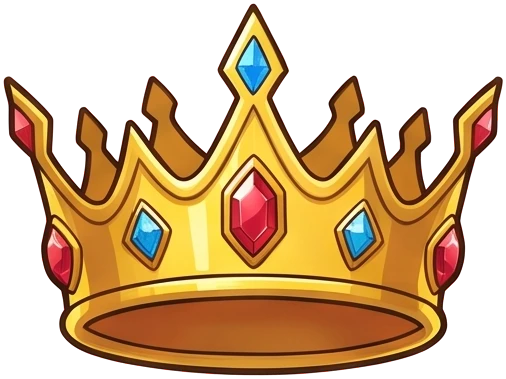
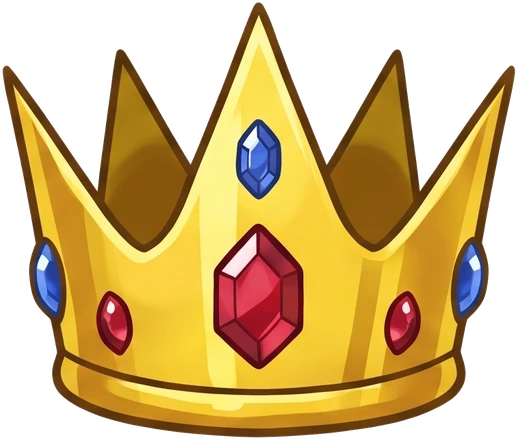
皇冠換成重畫的三頂（由上往下看的角度），並重調各型態的皇冠位置

diff --git a/js/sprites.js b/js/sprites.js
@@ -1,8 +1,8 @@
 // 圖片版美術：角色、怪物、升級配件都用 img/*.webp（由 tools/process_art.py 從 art_src 產生）
 // 對外介面與舊的 characters.js（程式畫的 SVG）相同，所以遊戲其他部分不用改。
-import { ART } from './art-meta.js?v=27';
+import { ART } from './art-meta.js?v=29';
 
-const AV = 1; // 圖片版本：換圖時 +1，避免瀏覽器用到舊圖
+const AV = 2; // 圖片版本：換圖時 +1，避免瀏覽器用到舊圖
 export const src = (name) => `img/${name}.webp?a=${AV}`;
 // 小圖示（題目物件、卡片圖示…）
 export const pic = (name, cls = 'pic') => `<img class="${cls}" src="${src(name)}" alt="" draggable="false">`;
@@ -22,7 +22,7 @@ export function formOf(level) { return Math.min(3, Math.floor(level / 5)); }
 const FORMS = {
   dino: [
     { h: 205, head: [0.57, 0.02], crown: 0.3, back: [0.3, 0.44], tilt: -6, cape: [0.3, 0.4, 1.35, 22] },
-    { h: 285, head: [0.63, 0.1], crown: 0.17, back: [0.47, 0.43], tilt: -14, cape: [0.5, 0.36, 1.25, 30] },
+    { h: 285, head: [0.63, 0.1], crown: 0.19, back: [0.47, 0.43], tilt: -14, cape: [0.5, 0.36, 1.25, 30] },
     { h: 300, head: [0.73, 0.03], crown: 0.19, back: [0.44, 0.4], tilt: -8, cape: [0.44, 0.32, 1.3, 26] },
     { h: 350, head: [0.67, 0.115], crown: 0.17, back: [0.5, 0.45], tilt: -6, cape: [0.5, 0.36, 1.25, 20], wing: [0.5, 0.22, 1.38] },
   ],
@@ -34,7 +34,7 @@ const FORMS = {
   ],
   boy: [
     { h: 235, head: [0.39, 0.06], crown: 0.27, back: [0.42, 0.52], tilt: 0 },
-    { h: 295, head: [0.5, 0.075], crown: 0.215, back: [0.5, 0.58], tilt: 0 },
+    { h: 295, head: [0.5, 0.105], crown: 0.215, back: [0.5, 0.58], tilt: 0 },
     { h: 340, head: [0.45, 0.2], crown: 0.18, back: [0.49, 0.6], tilt: 0, cape: [0.49, 0.5, 1.45, 0] },
     { h: 380, head: [0.43, 0.22], crown: 0.17, back: [0.48, 0.62], tilt: 0, cape: [0.48, 0.5, 1.5, 0] },
   ],

diff --git a/js/q/k2.js b/js/q/k2.js
@@ -1,6 +1,6 @@
 // 大班（新加坡 K2）：40 種題型。數到 20、分合到 10，開始認數字的「字」（中文版認國字、英文版認英文單字）。
-import { Q, def, L, pl, rnd, pick, shuffle, sample, range, chance, distinct, thing, things2, cnt, THINGS, ANIMALS, FOODS, TOYS } from './core.js?v=27';
-import { items, pile, grp, row, col, fig, emo, ncard, label, pic, seq, tenFrame, shape, bars, bond, ruler, gridMap, lineup, numLine, svg, COLORS, SHAPES, BASIC, cname, sname } from './vis.js?v=27';
+import { Q, def, L, pl, rnd, pick, shuffle, sample, range, chance, distinct, thing, things2, cnt, THINGS, ANIMALS, FOODS, TOYS } from './core.js?v=29';
+import { items, pile, grp, row, col, fig, emo, ncard, label, pic, seq, tenFrame, shape, bars, bond, ruler, gridMap, lineup, numLine, svg, COLORS, SHAPES, BASIC, cname, sname } from './vis.js?v=29';
 
 const T = { count: ['點數', 'Counting', '🔢'], numeral: ['數字', 'Numbers', '7⃣'], word: ['數字的字', 'Number words', '🔤'], seq: ['順序', 'Number order', '➡'], compare: ['比較', 'Comparing', '⚖'],
   bond: ['分合', 'Number bonds', '🫧'], pattern: ['型式', 'Patterns', '🔁'], sort: ['分類', 'Sorting', '🗂'], order: ['排序', 'Ordering', '📶'], shape: ['形狀', 'Shapes', '🔺'], pos: ['位置', 'Position', '📍'], bonus: ['加分題', 'Bonus', '⭐'] };

diff --git a/js/q/p1b.js b/js/q/p1b.js
@@ -1,7 +1,7 @@
 // 小一上 LV2（新加坡 P1 Term 2）：41 種題型。數到 100、加減到 20（湊十、從 10 減），第一次出現圖畫統計圖。
 // 每個題型只是「概念」：數字、東西、人名、主題每次都隨機換。
-import { Q, def, L, pl, rnd, pick, shuffle, sample, range, chance, distinct, thing, things2, cnt, who, who2, THINGS, ANIMALS, FOODS, TOYS } from './core.js?v=27';
-import { items, pile, grp, row, col, fig, emo, ncard, label, pic, dots, seq, bigEq, tenFrame, bond, numLine, hgrid, blocks, pgraph, tally, table, twd, modelCmp, svg } from './vis.js?v=27';
+import { Q, def, L, pl, rnd, pick, shuffle, sample, range, chance, distinct, thing, things2, cnt, who, who2, THINGS, ANIMALS, FOODS, TOYS } from './core.js?v=29';
+import { items, pile, grp, row, col, fig, emo, ncard, label, pic, dots, seq, bigEq, tenFrame, bond, numLine, hgrid, blocks, pgraph, tally, table, twd, modelCmp, svg } from './vis.js?v=29';
 
 const T = { n20: ['20 以內的數', 'Numbers to 20', '🔢'], add: ['20 以內的加法', 'Addition within 20', '➕'], sub: ['20 以內的減法', 'Subtraction within 20', '➖'], story: ['應用題', 'Word problems', '📖'],
   graph: ['圖畫統計圖', 'Picture graphs', '📊'], n100: ['100 以內的數', 'Numbers to 100', '💯'], bonus: ['加分題', 'Bonus', '⭐'] };

diff --git a/js/q/p1a.js b/js/q/p1a.js
@@ -1,7 +1,7 @@
 // 小一上 LV1（新加坡 P1 Term 1）：47 種題型。10 以內的數、10 以內加減、形狀、第幾個。
 // 規格裡要「寫、拖、劃掉、拼字」的題型都改成同一個概念的點選版。
-import { Q, def, L, pl, rnd, pick, shuffle, sample, range, chance, distinct, thing, things2, cnt, who, who2, THINGS, ANIMALS, FOODS, TOYS } from './core.js?v=27';
-import { items, pile, dots, grp, row, col, fig, emo, ncard, pic, seq, bigEq, tenFrame, bond, numLine, shape, solid, clock, bars, tallBars, lineup, svg, COLORS, SHAPES, BASIC, SOLIDS, cname, sname } from './vis.js?v=27';
+import { Q, def, L, pl, rnd, pick, shuffle, sample, range, chance, distinct, thing, things2, cnt, who, who2, THINGS, ANIMALS, FOODS, TOYS } from './core.js?v=29';
+import { items, pile, dots, grp, row, col, fig, emo, ncard, pic, seq, bigEq, tenFrame, bond, numLine, shape, solid, clock, bars, tallBars, lineup, svg, COLORS, SHAPES, BASIC, SOLIDS, cname, sname } from './vis.js?v=29';
 
 const T = { num: ['10 以內的數', 'Numbers to 10', '🔢'], add: ['加法', 'Addition', '➕'], sub: ['減法', 'Subtraction', '➖'], shape: ['形狀', 'Shapes', '🔺'], ord: ['第幾個', 'Ordinal numbers', '🏅'], bonus: ['加分題', 'Bonus', '⭐'] };
 const CK = Object.keys(COLORS), INK = '#2b2140';

diff --git a/js/q/k1.js b/js/q/k1.js
@@ -1,7 +1,7 @@
 // 中班（新加坡 K1）：34 種題型。數字只用 1~10，全部用圖片作答，不寫算式。
 // 每個題型只是「概念」：東西、顏色、情境每次都隨機換。
-import { Q, def, L, pl, rnd, pick, shuffle, sample, range, chance, distinct, thing, things2, cnt, THINGS, ANIMALS, FOODS, TOYS } from './core.js?v=27';
-import { items, pile, grp, row, col, fig, emo, ncard, pic, seq, dice, shape, bars, tallBars, posScene, bond, svg, COLORS, SHAPES, BASIC, cname, sname } from './vis.js?v=27';
+import { Q, def, L, pl, rnd, pick, shuffle, sample, range, chance, distinct, thing, things2, cnt, THINGS, ANIMALS, FOODS, TOYS } from './core.js?v=29';
+import { items, pile, grp, row, col, fig, emo, ncard, pic, seq, dice, shape, bars, tallBars, posScene, bond, svg, COLORS, SHAPES, BASIC, cname, sname } from './vis.js?v=29';
 
 const T = { count: ['點數', 'Counting', '🔢'], numeral: ['數字', 'Numbers', '7⃣'], compare: ['比較', 'Comparing', '⚖'], sort: ['分類', 'Sorting', '🗂'], match: ['配對', 'Matching', '🧩'],
   order: ['排序', 'Ordering', '📶'], pattern: ['型式', 'Patterns', '🔁'], shape: ['形狀', 'Shapes', '🔺'], pos: ['位置', 'Position', '📍'], bonus: ['加分題', 'Bonus', '⭐'] };

diff --git a/js/q/p1c.js b/js/q/p1c.js
@@ -1,7 +1,7 @@
 // 小一下 LV3（新加坡 P1 Term 3）：39 種題型。加減法擴到 100（開始用直式）、用公分量長度、乘法的「幾組幾個」。
 // 每個題型只是「概念」：數字、東西、人名、顏色每次都隨機換。
-import { Q, def, L, pl, rnd, pick, shuffle, sample, range, chance, distinct, thing, cnt, who, who2, THINGS, ANIMALS, FOODS } from './core.js?v=27';
-import { items, groups, array, row, col, fig, label, pic, seq, bigEq, vsum, blocks, ruler, bars, tallBars, modelPW, modelCmp, svg, COLORS, cname } from './vis.js?v=27';
+import { Q, def, L, pl, rnd, pick, shuffle, sample, range, chance, distinct, thing, cnt, who, who2, THINGS, ANIMALS, FOODS } from './core.js?v=29';
+import { items, groups, array, row, col, fig, label, pic, seq, bigEq, vsum, blocks, ruler, bars, tallBars, modelPW, modelCmp, svg, COLORS, cname } from './vis.js?v=29';
 
 const T = { add: ['100 以內的加法', 'Addition within 100', '➕'], sub: ['100 以內的減法', 'Subtraction within 100', '➖'], len: ['長度', 'Length', '📏'], mul: ['乘法', 'Multiplication', '✖'], bonus: ['加分題', 'Bonus', '⭐'] };
 const CK = Object.keys(COLORS), INK = '#2b2140';

diff --git a/js/q/p2c.js b/js/q/p2c.js
@@ -1,7 +1,7 @@
 // 小二下 LV3（新加坡 P2 Term 3）：40 種題型。兩步驟應用題、3 和 4 的乘法表、元和分的小數點寫法、分母 12 以內的分數。
 // 每個題型只是「概念」：故事、人名、東西、數字每次都隨機換。
-import { Q, def, L, pl, rnd, pick, shuffle, sample, range, chance, thing, who, who2, sayOf, FOODS } from './core.js?v=27';
-import { items, grp, row, col, fig, emo, ncard, pic, seq, bigEq, groups, array, table, note, cash, sgd, change, frac, fr, modelPW, modelCmp, svg, COLORS } from './vis.js?v=27';
+import { Q, def, L, pl, rnd, pick, shuffle, sample, range, chance, thing, who, who2, sayOf, FOODS } from './core.js?v=29';
+import { items, grp, row, col, fig, emo, ncard, pic, seq, bigEq, groups, array, table, note, cash, sgd, change, frac, fr, modelPW, modelCmp, svg, COLORS } from './vis.js?v=29';
 
 const T = { word: ['兩步驟應用題', 'Two-step word problems', '🧩'], times: ['乘法表', 'Times tables', '✖'], money: ['錢', 'Money', '💰'], frac: ['分數', 'Fractions', '🍕'], bonus: ['加分題', 'Bonus', '⭐'] };
 const INK = '#2b2140', CK = Object.keys(COLORS), anyColor = () => COLORS[pick(CK)].c;

diff --git a/js/q/p2a.js b/js/q/p2a.js
@@ -1,7 +1,7 @@
 // 小二上 LV1（新加坡 P2 Term 1）：38 種題型。數到 1000、三位數加減直式、應用題配模型圖、長度加入公尺。
 // 每個題型只是「概念」：數字、東西、人名、情境每次都隨機換。
-import { Q, def, L, EN, pl, rnd, pick, shuffle, sample, range, chance, distinct, thing, things2, who, who2 } from './core.js?v=27';
-import { row, col, fig, emo, ncard, label, seq, bigEq, vsum, numLine, blocks, ruler, modelPW, modelCmp, svg, COLORS, cname } from './vis.js?v=27';
+import { Q, def, L, EN, pl, rnd, pick, shuffle, sample, range, chance, distinct, thing, things2, who, who2 } from './core.js?v=29';
+import { row, col, fig, emo, ncard, label, seq, bigEq, vsum, numLine, blocks, ruler, modelPW, modelCmp, svg, COLORS, cname } from './vis.js?v=29';
 
 const T = { num: ['1000 以內的數', 'Numbers to 1000', '🔢'], add: ['1000 以內的加法', 'Addition within 1000', '➕'], sub: ['1000 以內的減法', 'Subtraction within 1000', '➖'], mix: ['加減綜合', 'Addition and subtraction', '🧮'],
   word: ['應用題', 'Word problems', '📖'], len: ['長度', 'Length', '📏'], bonus: ['加分題', 'Bonus', '⭐'] };

diff --git a/js/q/p2d.js b/js/q/p2d.js
@@ -1,7 +1,7 @@
 // 小二下 LV4（新加坡 P2 Term 4）：41 種題型。公升、有比例的圖畫統計圖、平面圖形的型式、五種立體，最後總複習。
 // 每個題型只是「概念」：容器、主題、人名、顏色、數字每次都隨機換。
-import { Q, def, L, pl, rnd, pick, shuffle, sample, range, chance, distinct, who } from './core.js?v=27';
-import { row, col, fig, emo, label, seq, bigEq, shape, solid, jug, glass, pgraph, tally, table, svg, COLORS, SOLIDS, cname, sname, solidName } from './vis.js?v=27';
+import { Q, def, L, pl, rnd, pick, shuffle, sample, range, chance, distinct, who } from './core.js?v=29';
+import { row, col, fig, emo, label, seq, bigEq, shape, solid, jug, glass, pgraph, tally, table, svg, COLORS, SOLIDS, cname, sname, solidName } from './vis.js?v=29';
 
 const T = { vol: ['容量', 'Volume', '🥛'], graph: ['圖畫統計圖', 'Picture graphs', '📊'], shape: ['平面圖形', '2D shapes', '🔺'], solid: ['立體', '3D shapes', '🧊'], review: ['總複習', 'Review', '🏁'], bonus: ['加分題', 'Bonus', '⭐'] };
 const INK = '#2b2140', CK = Object.keys(COLORS), SK = Object.keys(SOLIDS);

diff --git a/js/main.js b/js/main.js
@@ -1,8 +1,8 @@
-import { state, load, save, CHAR_IDS, xpNeed, isEvoLevel, formName, drawCards, power, UPGRADES, upInfo, resetChar, chooseLang } from './state.js?v=27';
-import { charSVG, MONSTERS, BOSSES, monsterSVG, sceneSVG, battleScene, preloadArt } from './sprites.js?v=27';
-import { speak, stopSpeak, sfx, unlockAudio, toggleMusic, voiceInfo, resetVoiceProbe } from './audio.js?v=27';
-import { GRADES, ALL, gradeOf, progressOf, planMission, NEED } from './q/index.js?v=27';
-import { t, getLang, monsterName } from './i18n.js?v=27';
+import { state, load, save, CHAR_IDS, xpNeed, isEvoLevel, formName, drawCards, power, UPGRADES, upInfo, resetChar, chooseLang } from './state.js?v=29';
+import { charSVG, MONSTERS, BOSSES, monsterSVG, sceneSVG, battleScene, preloadArt } from './sprites.js?v=29';
+import { speak, stopSpeak, sfx, unlockAudio, toggleMusic, voiceInfo, resetVoiceProbe } from './audio.js?v=29';
+import { GRADES, ALL, gradeOf, progressOf, planMission, NEED } from './q/index.js?v=29';
+import { t, getLang, monsterName } from './i18n.js?v=29';
 
 const stage = document.getElementById('stage');
 const $ = (s) => stage.querySelector(s);

diff --git a/js/q/p2b.js b/js/q/p2b.js
@@ -1,7 +1,7 @@
 // 小二上 LV2（新加坡 P2 Term 2）：39 種題型。正式用 × 和 ÷，背 2、5、10 的乘法表；重量用公斤、公克；時間讀到 1 分鐘。
 // 每個題型只是「概念」：東西、人名、數字、情境每次都隨機換。
-import { Q, def, L, pl, rnd, pick, shuffle, sample, range, chance, thing, who, who2, sayOf, FOODS, TOYS } from './core.js?v=27';
-import { items, groups, array, grp, row, col, fig, emo, ncard, label, pic, seq, bigEq, blocks, clock, timeStr, scale, balance, svg } from './vis.js?v=27';
+import { Q, def, L, pl, rnd, pick, shuffle, sample, range, chance, thing, who, who2, sayOf, FOODS, TOYS } from './core.js?v=29';
+import { items, groups, array, grp, row, col, fig, emo, ncard, label, pic, seq, bigEq, blocks, clock, timeStr, scale, balance, svg } from './vis.js?v=29';
 
 const T = { md: ['乘除概念', 'Multiply and divide', '✖'], table: ['乘法表', 'Times tables', '🔢'], word: ['乘除應用題', 'Word problems', '📖'],
   mass: ['重量', 'Mass', '⚖'], time: ['時間', 'Time', '🕒'], bonus: ['加分題', 'Bonus', '⭐'] };

diff --git a/js/q/p1d.js b/js/q/p1d.js
@@ -1,7 +1,7 @@
 // 小一下 LV4（新加坡 P1 Term 4）：35 種題型。除法（只用圖和文字，不出現除號）、時間、錢。
 // 每個題型只是「概念」：東西、人名、情境、數字每次都隨機換。
-import { Q, def, L, pl, rnd, pick, shuffle, sample, range, chance, thing, cnt, who, who2, sayOf, FOODS, TOYS } from './core.js?v=27';
-import { items, grp, row, col, fig, emo, label, pic, bigEq, groups, clock, timeStr, digital, coin, note, cash, change, calendar } from './vis.js?v=27';
+import { Q, def, L, pl, rnd, pick, shuffle, sample, range, chance, thing, cnt, who, who2, sayOf, FOODS, TOYS } from './core.js?v=29';
+import { items, grp, row, col, fig, emo, label, pic, bigEq, groups, clock, timeStr, digital, coin, note, cash, change, calendar } from './vis.js?v=29';
 
 const T = { div: ['除法', 'Division', '🍪'], time: ['時間', 'Time', '🕐'], money: ['錢', 'Money', '💰'], mix: ['綜合', 'Mixed practice', '🧠'], bonus: ['加分題', 'Bonus', '⭐'] };
 const sum = (a) => a.reduce((x, y) => x + y, 0);
